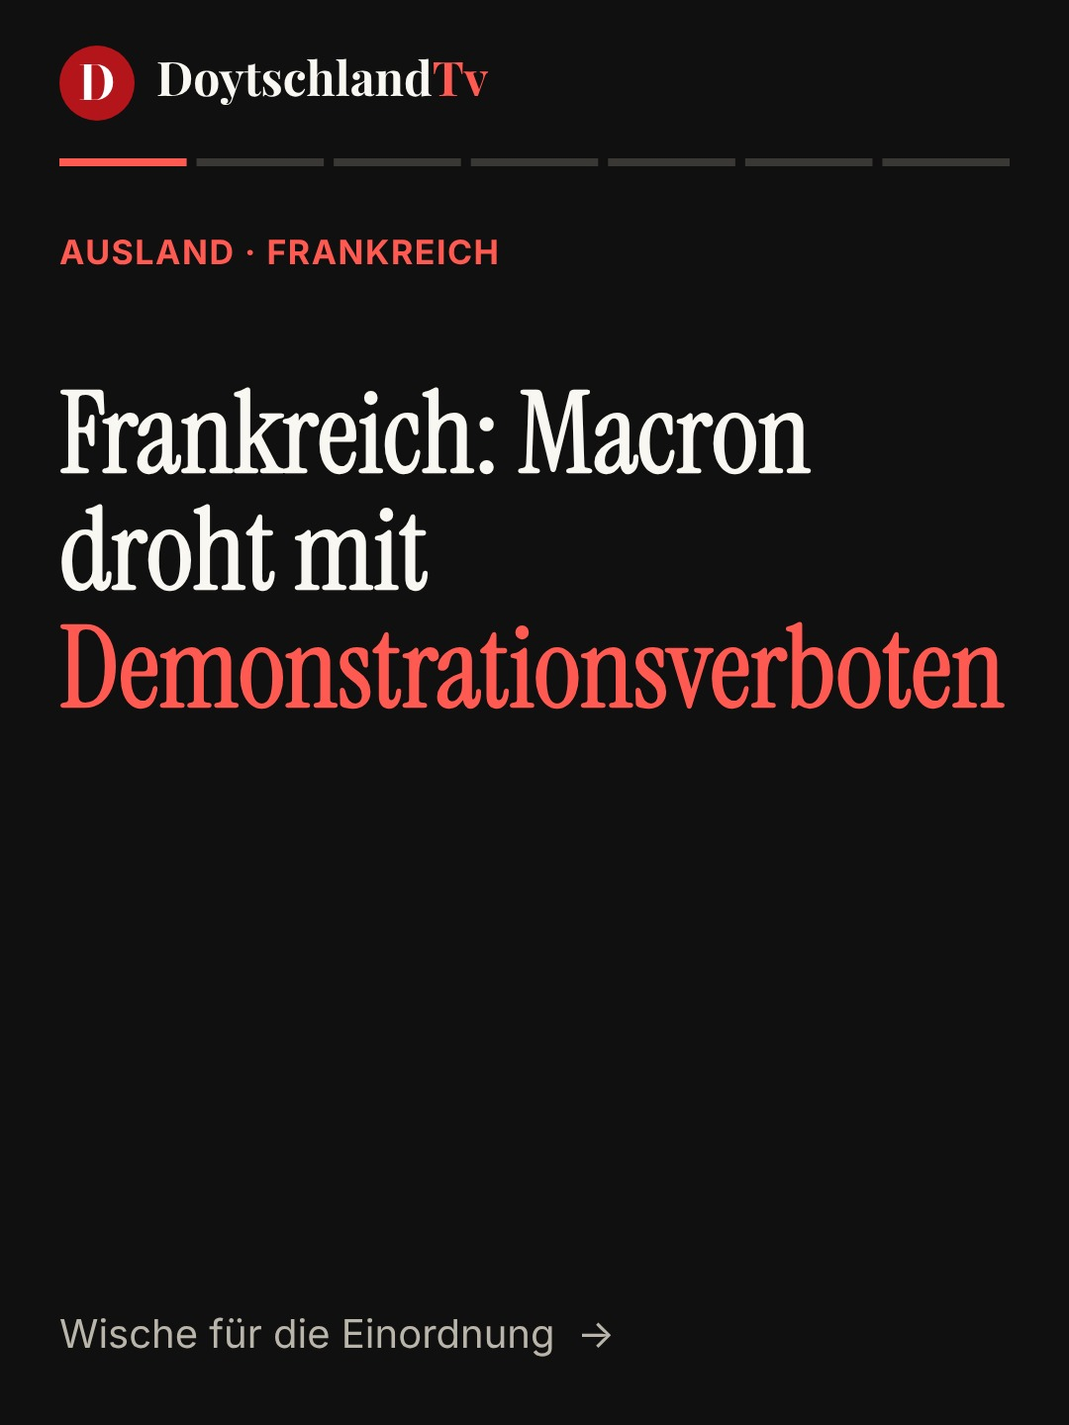
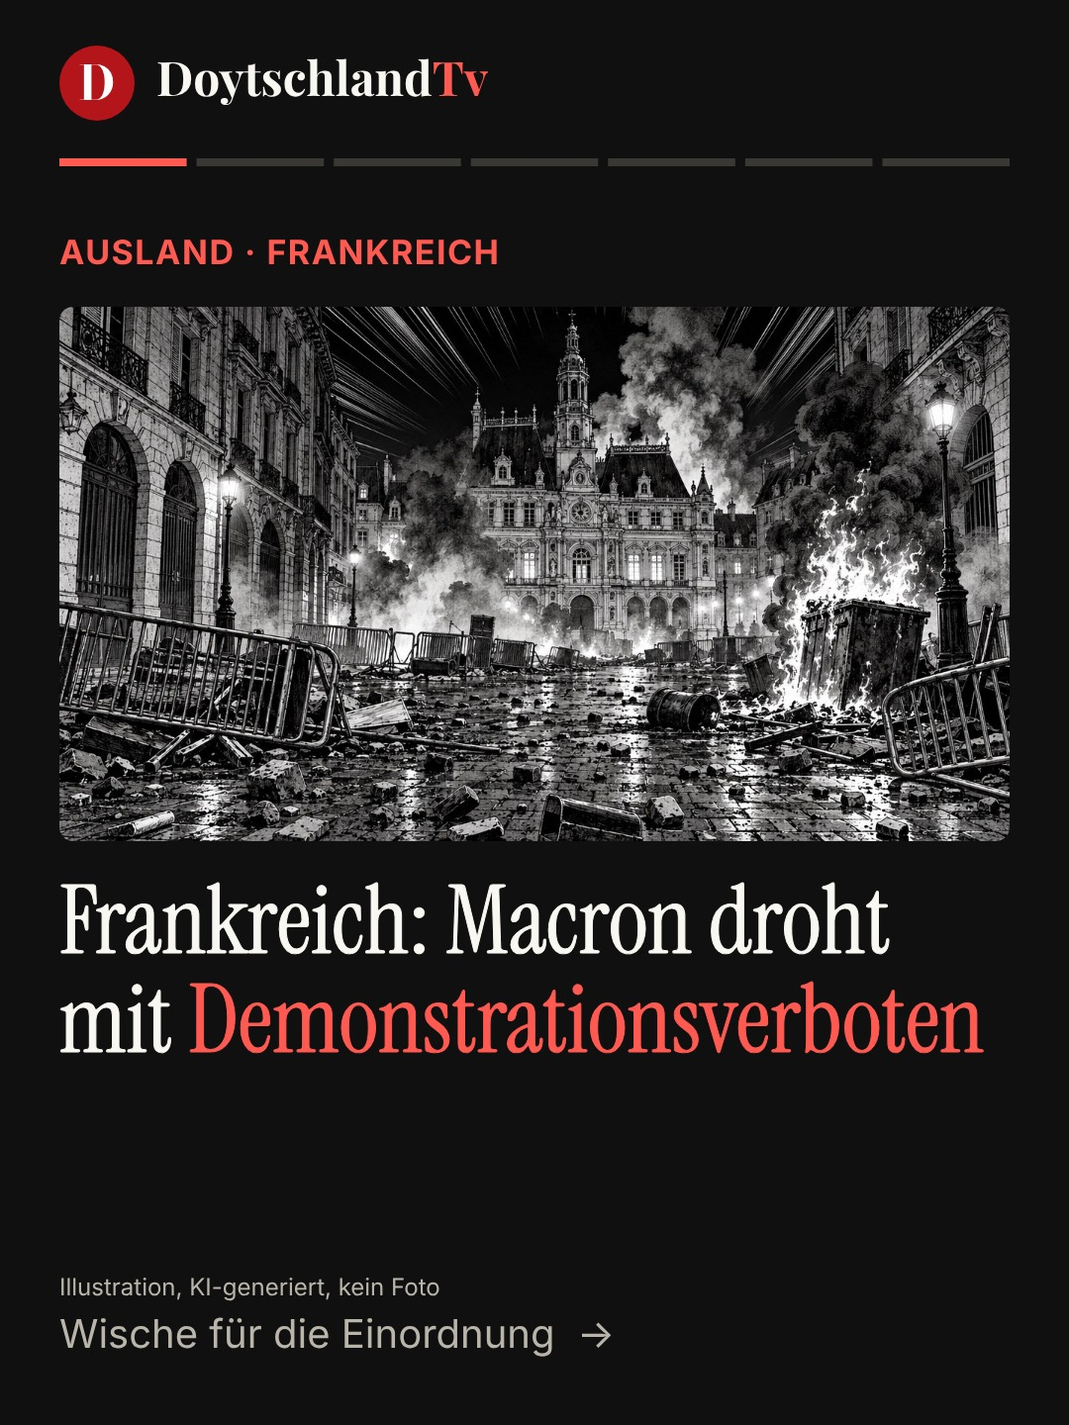
Macron-Karussell: Titelbild
Claude-Session: https://claude.ai/code/session_01HADCkE2LZJHKQCUdz9XwMJ

diff --git a/beitrag/2026-10-19-frankreich-macron-droht-mit-demonstrationsverboten.html b/beitrag/2026-10-19-frankreich-macron-droht-mit-demonstrationsverboten.html
@@ -5,10 +5,10 @@
 <link rel="canonical" href="https://doytschtv.de/beitrag/2026-10-19-frankreich-macron-droht-mit-demonstrationsverboten.html">
 <meta name="robots" content="index,follow,max-image-preview:large">
 <meta property="og:type" content="article"><meta property="og:site_name" content="DoytschlandTv"><meta property="og:locale" content="de_DE">
-<meta property="og:title" content="Frankreich: Macron droht mit Demonstrationsverboten"><meta property="og:description" content="In einer Fernsehansprache am Sonntagabend kündigte Macron an, dass Präfekten gemeinsam mit Bürgermeistern bestimmte Versammlungen verbieten können. Die…"><meta property="og:url" content="https://doytschtv.de/beitrag/2026-10-19-frankreich-macron-droht-mit-demonstrationsverboten.html"><meta property="og:image" content="https://doytschtv.de/og-image.png">
-<meta name="twitter:card" content="summary_large_image"><meta name="twitter:title" content="Frankreich: Macron droht mit Demonstrationsverboten"><meta name="twitter:description" content="In einer Fernsehansprache am Sonntagabend kündigte Macron an, dass Präfekten gemeinsam mit Bürgermeistern bestimmte Versammlungen verbieten können. Die…"><meta name="twitter:image" content="https://doytschtv.de/og-image.png">
+<meta property="og:title" content="Frankreich: Macron droht mit Demonstrationsverboten"><meta property="og:description" content="In einer Fernsehansprache am Sonntagabend kündigte Macron an, dass Präfekten gemeinsam mit Bürgermeistern bestimmte Versammlungen verbieten können. Die…"><meta property="og:url" content="https://doytschtv.de/beitrag/2026-10-19-frankreich-macron-droht-mit-demonstrationsverboten.html"><meta property="og:image" content="https://doytschtv.de/titel-frankreich.jpg">
+<meta name="twitter:card" content="summary_large_image"><meta name="twitter:title" content="Frankreich: Macron droht mit Demonstrationsverboten"><meta name="twitter:description" content="In einer Fernsehansprache am Sonntagabend kündigte Macron an, dass Präfekten gemeinsam mit Bürgermeistern bestimmte Versammlungen verbieten können. Die…"><meta name="twitter:image" content="https://doytschtv.de/titel-frankreich.jpg">
 <meta name="theme-color" content="#0b0b10"><link rel="apple-touch-icon" href="/favicon.png">
-<script type="application/ld+json">{"@context": "https://schema.org", "@type": "NewsArticle", "headline": "Frankreich: Macron droht mit Demonstrationsverboten", "description": "In einer Fernsehansprache am Sonntagabend kündigte Macron an, dass Präfekten gemeinsam mit Bürgermeistern bestimmte Versammlungen verbieten können. Die…", "datePublished": "2026-10-19", "dateModified": "2026-10-19", "inLanguage": "de", "mainEntityOfPage": "https://doytschtv.de/beitrag/2026-10-19-frankreich-macron-droht-mit-demonstrationsverboten.html", "image": ["https://doytschtv.de/og-image.png"], "author": {"@type": "Organization", "name": "DoytschlandTv", "url": "https://doytschtv.de/"}, "publisher": {"@type": "Organization", "name": "DoytschlandTv", "logo": {"@type": "ImageObject", "url": "https://doytschtv.de/favicon.png"}}, "articleSection": "Nachrichten", "keywords": ["doytschlandtv", "aktuell", "frankreich", "macron", "demonstrationsrecht", "proteste", "einordnung", "nachrichten"]}</script>
+<script type="application/ld+json">{"@context": "https://schema.org", "@type": "NewsArticle", "headline": "Frankreich: Macron droht mit Demonstrationsverboten", "description": "In einer Fernsehansprache am Sonntagabend kündigte Macron an, dass Präfekten gemeinsam mit Bürgermeistern bestimmte Versammlungen verbieten können. Die…", "datePublished": "2026-10-19", "dateModified": "2026-10-19", "inLanguage": "de", "mainEntityOfPage": "https://doytschtv.de/beitrag/2026-10-19-frankreich-macron-droht-mit-demonstrationsverboten.html", "image": ["https://doytschtv.de/titel-frankreich.jpg"], "author": {"@type": "Organization", "name": "DoytschlandTv", "url": "https://doytschtv.de/"}, "publisher": {"@type": "Organization", "name": "DoytschlandTv", "logo": {"@type": "ImageObject", "url": "https://doytschtv.de/favicon.png"}}, "articleSection": "Nachrichten", "keywords": ["doytschlandtv", "aktuell", "frankreich", "macron", "demonstrationsrecht", "proteste", "einordnung", "nachrichten"]}</script>
 <link rel="stylesheet" href="/fonts.css"><link rel="stylesheet" href="/styles.css"><link rel="stylesheet" href="/briefing.css">
 <style>:root{color-scheme:light}body{margin:0}</style><link rel="icon" type="image/png" href="/favicon.png"></head><body>
-<header class="nav"><div class="wrap"><a class="brand" href="/index.html"><span class="mk" aria-hidden="true">D</span><img class="lg-l" src="/logo.png" alt="DoytschlandTv" width="136" height="25"><img class="lg-d" src="/logo-dark.png" alt="DoytschlandTv" width="136" height="25"></a><ul><li><a href="/briefing.html">Briefing</a></li><li><a href="/nachrichten.html" class=on>Nachrichten</a></li><li><a href="/dossiers.html">Dossiers</a></li><li><a href="/meinungen.html">Meinungen</a></li><li><a href="/erklaert.html">Erklärt</a></li><li><a href="/ueber-uns.html">Über uns</a></li></ul><span class="nav-so"><a href="https://www.instagram.com/doytschlandtv/" target="_blank" rel="noopener" aria-label="DoytschlandTv auf Instagram"><svg viewBox="0 0 24 24" fill="none" stroke="currentColor" stroke-width="2" stroke-linecap="round" aria-hidden="true"><rect x="3" y="3" width="18" height="18" rx="5"/><circle cx="12" cy="12" r="4.2"/><circle cx="17.3" cy="6.7" r=".6" fill="currentColor"/></svg></a><a href="https://www.tiktok.com/@doytschlandtv" target="_blank" rel="noopener" aria-label="DoytschlandTv auf TikTok"><svg viewBox="0 0 24 24" fill="currentColor" aria-hidden="true"><path d="M16.6 5.8A4.3 4.3 0 0 1 15.5 3h-3.1v12.4a2.6 2.6 0 1 1-1.8-2.5V9.7a5.7 5.7 0 1 0 4.9 5.7V9a7.3 7.3 0 0 0 4.3 1.4V7.3a4.3 4.3 0 0 1-3.2-1.5z"/></svg></a></span></div></header><main><div class="wrap"><article class="kol"><p class="b-eyebrow">Nachrichten · Ausland · Frankreich</p><h1 class="mk-h1">Frankreich: Macron droht mit Demonstrationsverboten</h1><p class="mk-meta">19. Oktober 2026</p><h2>Die Ansprache</h2><p><strong>Verbote „notfalls“ möglich.</strong></p><p>In einer Fernsehansprache am Sonntagabend kündigte Macron an, dass Präfekten gemeinsam mit Bürgermeistern bestimmte Versammlungen verbieten können. Die Polizeiarbeit soll überprüft werden, auch ob Aufklärung und Vorbereitung versagt haben. Diese Woche sollen Schüler, Lehrer, Abgeordnete, Gewerkschaften und Wirtschaft Vorschläge erarbeiten.</p><h2>Der Samstag</h2><p><strong>2.000</strong> Festnahmen nennt das Innenministerium ungefähr, 855 davon in Paris. Rund 600 Polizisten und Feuerwehrleute wurden verletzt. Die Behörden gehen von 500 bis 1.000 gewaltbereiten Personen aus. Zum Protest kamen laut Innenministerium 550.000 Menschen.</p><h2>Behauptung und Fakt</h2><p><strong>Macron:</strong> Nichts rechtfertige die Gewalt. Verantwortlich seien linksextreme Gruppen und Kriminelle. Demonstrierende mit legitimen Forderungen dürfe man nicht mit Randalierern verwechseln.</p><p><strong>Jean-Luc Mélenchon (LFI):</strong> Die Regierung lasse die Probleme schwelen, die Jugend stecke in einer tiefen Krise. Man dürfe die Wahl zwischen Plünderern und Polizei nicht akzeptieren.</p><h2>Was jetzt folgt</h2><p><strong>Neue Proteste am 5. November</strong></p><p>Für den 5. November sind neue Proteste angekündigt. Bruno Retailleau fordert den Ausnahmezustand, Marine Le Pen macht Linksextreme und Macron verantwortlich. Schon jetzt können Präfekten Demonstrationen verbieten, wenn sie eine Störung der öffentlichen Ordnung erwarten. Gerichte können das Verbot kippen.</p><h2>Unsere Meinung</h2><p>Gewalt muss konsequent verfolgt werden. Aber ein Demonstrationsverbot beseitigt keine der Ursachen: hohe Preise, niedrige Löhne, marode Schulen. Wer die Wut von mehr als einer halben Million Menschen ernst nimmt, muss dort ansetzen. Das Recht zu demonstrieren gehört dazu.</p><h2>Was meinst du?</h2><p><strong>Sollte ein Staat Demonstrationen verbieten dürfen, wenn Gewalt zu befürchten ist?</strong></p><h2>Quellen</h2><ul><li>Stuttgarter Nachrichten (dpa), 18.10.2026; ORF, 19.10.2026</li><li>ORF, 19.10.2026</li><li>ORF, 19.10.2026; The Local France, 10.5.2023</li></ul><p><a href="/nachrichten.html">Alle Karussells ansehen ›</a></p><p class="mk-meta">Fakten sind mit Quellen belegt, Meinung ist als „Unsere Meinung“ gekennzeichnet.</p></article></div></main><footer><div class="wrap"><span>© DoytschlandTv</span><span><a href="/impressum.html">Impressum</a> · <a href="/datenschutz.html">Datenschutz</a></span></div></footer></body></html>
+<header class="nav"><div class="wrap"><a class="brand" href="/index.html"><span class="mk" aria-hidden="true">D</span><img class="lg-l" src="/logo.png" alt="DoytschlandTv" width="136" height="25"><img class="lg-d" src="/logo-dark.png" alt="DoytschlandTv" width="136" height="25"></a><ul><li><a href="/briefing.html">Briefing</a></li><li><a href="/nachrichten.html" class=on>Nachrichten</a></li><li><a href="/dossiers.html">Dossiers</a></li><li><a href="/meinungen.html">Meinungen</a></li><li><a href="/erklaert.html">Erklärt</a></li><li><a href="/ueber-uns.html">Über uns</a></li></ul><span class="nav-so"><a href="https://www.instagram.com/doytschlandtv/" target="_blank" rel="noopener" aria-label="DoytschlandTv auf Instagram"><svg viewBox="0 0 24 24" fill="none" stroke="currentColor" stroke-width="2" stroke-linecap="round" aria-hidden="true"><rect x="3" y="3" width="18" height="18" rx="5"/><circle cx="12" cy="12" r="4.2"/><circle cx="17.3" cy="6.7" r=".6" fill="currentColor"/></svg></a><a href="https://www.tiktok.com/@doytschlandtv" target="_blank" rel="noopener" aria-label="DoytschlandTv auf TikTok"><svg viewBox="0 0 24 24" fill="currentColor" aria-hidden="true"><path d="M16.6 5.8A4.3 4.3 0 0 1 15.5 3h-3.1v12.4a2.6 2.6 0 1 1-1.8-2.5V9.7a5.7 5.7 0 1 0 4.9 5.7V9a7.3 7.3 0 0 0 4.3 1.4V7.3a4.3 4.3 0 0 1-3.2-1.5z"/></svg></a></span></div></header><main><div class="wrap"><article class="kol"><p class="b-eyebrow">Nachrichten · Ausland · Frankreich</p><h1 class="mk-h1">Frankreich: Macron droht mit Demonstrationsverboten</h1><p class="mk-meta">19. Oktober 2026</p><figure style="margin:1rem 0"><img src="/titel-frankreich.jpg" alt="Frankreich: Macron droht mit Demonstrationsverboten" style="width:100%;height:auto;border-radius:1rem" loading="lazy"><figcaption class="mk-meta">Illustration, KI-generiert, kein Foto</figcaption></figure><h2>Die Ansprache</h2><p><strong>Verbote „notfalls“ möglich.</strong></p><p>In einer Fernsehansprache am Sonntagabend kündigte Macron an, dass Präfekten gemeinsam mit Bürgermeistern bestimmte Versammlungen verbieten können. Die Polizeiarbeit soll überprüft werden, auch ob Aufklärung und Vorbereitung versagt haben. Diese Woche sollen Schüler, Lehrer, Abgeordnete, Gewerkschaften und Wirtschaft Vorschläge erarbeiten.</p><h2>Der Samstag</h2><p><strong>2.000</strong> Festnahmen nennt das Innenministerium ungefähr, 855 davon in Paris. Rund 600 Polizisten und Feuerwehrleute wurden verletzt. Die Behörden gehen von 500 bis 1.000 gewaltbereiten Personen aus. Zum Protest kamen laut Innenministerium 550.000 Menschen.</p><h2>Behauptung und Fakt</h2><p><strong>Macron:</strong> Nichts rechtfertige die Gewalt. Verantwortlich seien linksextreme Gruppen und Kriminelle. Demonstrierende mit legitimen Forderungen dürfe man nicht mit Randalierern verwechseln.</p><p><strong>Jean-Luc Mélenchon (LFI):</strong> Die Regierung lasse die Probleme schwelen, die Jugend stecke in einer tiefen Krise. Man dürfe die Wahl zwischen Plünderern und Polizei nicht akzeptieren.</p><h2>Was jetzt folgt</h2><p><strong>Neue Proteste am 5. November</strong></p><p>Für den 5. November sind neue Proteste angekündigt. Bruno Retailleau fordert den Ausnahmezustand, Marine Le Pen macht Linksextreme und Macron verantwortlich. Schon jetzt können Präfekten Demonstrationen verbieten, wenn sie eine Störung der öffentlichen Ordnung erwarten. Gerichte können das Verbot kippen.</p><h2>Unsere Meinung</h2><p>Gewalt muss konsequent verfolgt werden. Aber ein Demonstrationsverbot beseitigt keine der Ursachen: hohe Preise, niedrige Löhne, marode Schulen. Wer die Wut von mehr als einer halben Million Menschen ernst nimmt, muss dort ansetzen. Das Recht zu demonstrieren gehört dazu.</p><h2>Was meinst du?</h2><p><strong>Sollte ein Staat Demonstrationen verbieten dürfen, wenn Gewalt zu befürchten ist?</strong></p><h2>Quellen</h2><ul><li>Stuttgarter Nachrichten (dpa), 18.10.2026; ORF, 19.10.2026</li><li>ORF, 19.10.2026</li><li>ORF, 19.10.2026; The Local France, 10.5.2023</li></ul><p><a href="/nachrichten.html">Alle Karussells ansehen ›</a></p><p class="mk-meta">Fakten sind mit Quellen belegt, Meinung ist als „Unsere Meinung“ gekennzeichnet.</p></article></div></main><footer><div class="wrap"><span>© DoytschlandTv</span><span><a href="/impressum.html">Impressum</a> · <a href="/datenschutz.html">Datenschutz</a></span></div></footer></body></html>

diff --git a/index.html b/index.html
@@ -64,7 +64,7 @@
         <h2 id="heute-h">Zuletzt im Blick</h2>
         <p id="heute-datum">19. Oktober 2026</p>
       </div>
-      <div class="hc-wrap"><button class="hc-b" id="hc-prev" type="button" aria-label="Zurück">&lsaquo;</button><div class="hc-rail" id="heute-liste" tabindex="0" aria-label="Schlagzeilen, seitlich wischen"><!--heute--><a class="hc" href="nachrichten.html#Merz%20l%C3%A4dt%20zum%20Investitionsgipfel%2C%20Nvidia-Chef%20Huang%20kommt"><span class="hc-t"><span class="k">Nachrichten · Mo., 19.10.</span><strong>Merz lädt zum Investitionsgipfel, Nvidia-Chef Huang kommt</strong></span></a><a class="hc" href="nachrichten.html#AfD%20will%20Kosten%20und%20Nutzen%20der%20Zuwanderung%20bilanzieren"><span class="hc-t"><span class="k">Nachrichten · Mo., 19.10.</span><strong>AfD will Kosten und Nutzen der Zuwanderung bilanzieren</strong></span></a><a class="hc" href="nachrichten.html#Frankreich%3A%20Macron%20droht%20mit%20Demonstrationsverboten"><span class="hc-t"><span class="k">Nachrichten · Mo., 19.10.</span><strong>Frankreich: Macron droht mit Demonstrationsverboten</strong></span></a><a class="hc has-img" href="nachrichten.html#%E2%80%9EEuropa%20brennt%E2%80%9C%3F%20Was%20die%20viralen%20Bilder%20zeigen%20und%20was%20nicht"><span class="hc-i"><img class="bg" src="titel-europa.jpg" alt="" loading="lazy" aria-hidden="true"><img class="fg" src="titel-europa.jpg" alt="" loading="lazy"></span><span class="hc-t"><span class="k">Nachrichten · Mo., 19.10.</span><strong>„Europa brennt“? Was die viralen Bilder zeigen und was nicht</strong><small>Illustration, KI-generiert, kein Foto</small></span></a><a class="hc has-img" href="nachrichten.html#Morning%20Briefing%2C%20Montag%2C%2019.%20Oktober%202026"><span class="hc-i"><img class="bg" src="titel-morning-briefing.jpg" alt="" loading="lazy" aria-hidden="true"><img class="fg" src="titel-morning-briefing.jpg" alt="" loading="lazy"></span><span class="hc-t"><span class="k">Nachrichten · Mo., 19.10.</span><strong>Morning Briefing, Montag, 19. Oktober 2026</strong><small>Grafik, DoytschlandTv</small></span></a><a class="hc has-img" href="nachrichten.html#Trump%20setzt%20neue%20Russland-Sanktionen%20aus"><span class="hc-i"><img class="bg" src="titel-russland.jpg" alt="" loading="lazy" aria-hidden="true"><img class="fg" src="titel-russland.jpg" alt="" loading="lazy"></span><span class="hc-t"><span class="k">Nachrichten · Mo., 19.10.</span><strong>Trump setzt neue Russland-Sanktionen aus</strong><small>Illustration, KI-generiert, kein Foto</small></span></a><a class="hc has-img" href="nachrichten.html#Berlin%3A%20Linke%2C%20Gr%C3%BCne%20und%20SPD%20wollen%20gro%C3%9Fe%20Wohnungskonzerne%20vergesellschaften"><span class="hc-i"><img class="bg" src="titel-berlin.jpg" alt="" loading="lazy" aria-hidden="true"><img class="fg" src="titel-berlin.jpg" alt="" loading="lazy"></span><span class="hc-t"><span class="k">Nachrichten · Mo., 19.10.</span><strong>Berlin: Linke, Grüne und SPD wollen große Wohnungskonzerne vergesellschaften</strong><small>Illustration, KI-generiert, kein Foto</small></span></a><a class="hc" href="nachrichten.html#Morning%20Briefing%2C%20Sonntag%2C%2018.%20Oktober%202026"><span class="hc-t"><span class="k">Nachrichten · So., 18.10.</span><strong>Morning Briefing, Sonntag, 18. Oktober 2026</strong></span></a><a class="hc has-img" href="nachrichten.html#Frankreich%3A%20Landesweiter%20Protesttag%20endet%20mit%20schweren%20Krawallen"><span class="hc-i"><img class="bg" src="titel-frankreich.jpg" alt="" loading="lazy" aria-hidden="true"><img class="fg" src="titel-frankreich.jpg" alt="" loading="lazy"></span><span class="hc-t"><span class="k">Nachrichten · So., 18.10.</span><strong>Frankreich: Landesweiter Protesttag endet mit schweren Krawallen</strong><small>Illustration, KI-generiert, kein Foto</small></span></a><a class="hc has-img" href="nachrichten.html#WDR%20will%20sein%20Angebot%20bis%202030%20halbieren"><span class="hc-i"><img class="bg" src="titel-wdr.jpg" alt="" loading="lazy" aria-hidden="true"><img class="fg" src="titel-wdr.jpg" alt="" loading="lazy"></span><span class="hc-t"><span class="k">Nachrichten · So., 18.10.</span><strong>WDR will sein Angebot bis 2030 halbieren</strong><small>Illustration, KI-generiert, kein Foto</small></span></a><a class="hc has-img" href="briefing.html#2026-10-19"><span class="hc-i"><img class="bg" src="titel-briefing.jpg" alt="" loading="lazy" aria-hidden="true"><img class="fg" src="titel-briefing.jpg" alt="" loading="lazy"></span><span class="hc-t"><span class="k">Morning Briefing</span><strong>Frankreich: Nach dem Protesttag rund 2.000 Festnahmen und 4 weitere Themen</strong><small>Illustration, KI-generiert, kein Foto</small></span></a><a class="hc has-img" href="meinungen.html#2026-10-11"><span class="hc-i"><img class="bg" src="kolumne-christ.jpg" alt="" loading="lazy" aria-hidden="true"><img class="fg" src="kolumne-christ.jpg" alt="" loading="lazy"></span><span class="hc-t"><span class="k">Kolumne · Demokratie</span><strong>Selbstauskunft ist keine Kontrolle: Was der Fall Christ über Beratergremien zeigt</strong><small>Illustration, KI-generiert, kein Foto.</small></span></a><a class="hc" href="erklaert.html#schuldenbremse"><span class="hc-t"><span class="k">Erklärt</span><strong>Schuldenbremse und Sondervermögen</strong></span></a><!--/heute--></div><button class="hc-b nx" id="hc-next" type="button" aria-label="Weiter">&rsaquo;</button></div>
+      <div class="hc-wrap"><button class="hc-b" id="hc-prev" type="button" aria-label="Zurück">&lsaquo;</button><div class="hc-rail" id="heute-liste" tabindex="0" aria-label="Schlagzeilen, seitlich wischen"><!--heute--><a class="hc" href="nachrichten.html#Merz%20l%C3%A4dt%20zum%20Investitionsgipfel%2C%20Nvidia-Chef%20Huang%20kommt"><span class="hc-t"><span class="k">Nachrichten · Mo., 19.10.</span><strong>Merz lädt zum Investitionsgipfel, Nvidia-Chef Huang kommt</strong></span></a><a class="hc" href="nachrichten.html#AfD%20will%20Kosten%20und%20Nutzen%20der%20Zuwanderung%20bilanzieren"><span class="hc-t"><span class="k">Nachrichten · Mo., 19.10.</span><strong>AfD will Kosten und Nutzen der Zuwanderung bilanzieren</strong></span></a><a class="hc has-img" href="nachrichten.html#Frankreich%3A%20Macron%20droht%20mit%20Demonstrationsverboten"><span class="hc-i"><img class="bg" src="titel-frankreich.jpg" alt="" loading="lazy" aria-hidden="true"><img class="fg" src="titel-frankreich.jpg" alt="" loading="lazy"></span><span class="hc-t"><span class="k">Nachrichten · Mo., 19.10.</span><strong>Frankreich: Macron droht mit Demonstrationsverboten</strong><small>Illustration, KI-generiert, kein Foto</small></span></a><a class="hc has-img" href="nachrichten.html#%E2%80%9EEuropa%20brennt%E2%80%9C%3F%20Was%20die%20viralen%20Bilder%20zeigen%20und%20was%20nicht"><span class="hc-i"><img class="bg" src="titel-europa.jpg" alt="" loading="lazy" aria-hidden="true"><img class="fg" src="titel-europa.jpg" alt="" loading="lazy"></span><span class="hc-t"><span class="k">Nachrichten · Mo., 19.10.</span><strong>„Europa brennt“? Was die viralen Bilder zeigen und was nicht</strong><small>Illustration, KI-generiert, kein Foto</small></span></a><a class="hc has-img" href="nachrichten.html#Morning%20Briefing%2C%20Montag%2C%2019.%20Oktober%202026"><span class="hc-i"><img class="bg" src="titel-morning-briefing.jpg" alt="" loading="lazy" aria-hidden="true"><img class="fg" src="titel-morning-briefing.jpg" alt="" loading="lazy"></span><span class="hc-t"><span class="k">Nachrichten · Mo., 19.10.</span><strong>Morning Briefing, Montag, 19. Oktober 2026</strong><small>Grafik, DoytschlandTv</small></span></a><a class="hc has-img" href="nachrichten.html#Trump%20setzt%20neue%20Russland-Sanktionen%20aus"><span class="hc-i"><img class="bg" src="titel-russland.jpg" alt="" loading="lazy" aria-hidden="true"><img class="fg" src="titel-russland.jpg" alt="" loading="lazy"></span><span class="hc-t"><span class="k">Nachrichten · Mo., 19.10.</span><strong>Trump setzt neue Russland-Sanktionen aus</strong><small>Illustration, KI-generiert, kein Foto</small></span></a><a class="hc has-img" href="nachrichten.html#Berlin%3A%20Linke%2C%20Gr%C3%BCne%20und%20SPD%20wollen%20gro%C3%9Fe%20Wohnungskonzerne%20vergesellschaften"><span class="hc-i"><img class="bg" src="titel-berlin.jpg" alt="" loading="lazy" aria-hidden="true"><img class="fg" src="titel-berlin.jpg" alt="" loading="lazy"></span><span class="hc-t"><span class="k">Nachrichten · Mo., 19.10.</span><strong>Berlin: Linke, Grüne und SPD wollen große Wohnungskonzerne vergesellschaften</strong><small>Illustration, KI-generiert, kein Foto</small></span></a><a class="hc" href="nachrichten.html#Morning%20Briefing%2C%20Sonntag%2C%2018.%20Oktober%202026"><span class="hc-t"><span class="k">Nachrichten · So., 18.10.</span><strong>Morning Briefing, Sonntag, 18. Oktober 2026</strong></span></a><a class="hc has-img" href="nachrichten.html#Frankreich%3A%20Landesweiter%20Protesttag%20endet%20mit%20schweren%20Krawallen"><span class="hc-i"><img class="bg" src="titel-frankreich.jpg" alt="" loading="lazy" aria-hidden="true"><img class="fg" src="titel-frankreich.jpg" alt="" loading="lazy"></span><span class="hc-t"><span class="k">Nachrichten · So., 18.10.</span><strong>Frankreich: Landesweiter Protesttag endet mit schweren Krawallen</strong><small>Illustration, KI-generiert, kein Foto</small></span></a><a class="hc has-img" href="nachrichten.html#WDR%20will%20sein%20Angebot%20bis%202030%20halbieren"><span class="hc-i"><img class="bg" src="titel-wdr.jpg" alt="" loading="lazy" aria-hidden="true"><img class="fg" src="titel-wdr.jpg" alt="" loading="lazy"></span><span class="hc-t"><span class="k">Nachrichten · So., 18.10.</span><strong>WDR will sein Angebot bis 2030 halbieren</strong><small>Illustration, KI-generiert, kein Foto</small></span></a><a class="hc has-img" href="briefing.html#2026-10-19"><span class="hc-i"><img class="bg" src="titel-briefing.jpg" alt="" loading="lazy" aria-hidden="true"><img class="fg" src="titel-briefing.jpg" alt="" loading="lazy"></span><span class="hc-t"><span class="k">Morning Briefing</span><strong>Frankreich: Nach dem Protesttag rund 2.000 Festnahmen und 4 weitere Themen</strong><small>Illustration, KI-generiert, kein Foto</small></span></a><a class="hc has-img" href="meinungen.html#2026-10-11"><span class="hc-i"><img class="bg" src="kolumne-christ.jpg" alt="" loading="lazy" aria-hidden="true"><img class="fg" src="kolumne-christ.jpg" alt="" loading="lazy"></span><span class="hc-t"><span class="k">Kolumne · Demokratie</span><strong>Selbstauskunft ist keine Kontrolle: Was der Fall Christ über Beratergremien zeigt</strong><small>Illustration, KI-generiert, kein Foto.</small></span></a><a class="hc" href="erklaert.html#schuldenbremse"><span class="hc-t"><span class="k">Erklärt</span><strong>Schuldenbremse und Sondervermögen</strong></span></a><!--/heute--></div><button class="hc-b nx" id="hc-next" type="button" aria-label="Weiter">&rsaquo;</button></div>
     </div>
   </section>
 

diff --git a/briefings.js b/briefings.js
@@ -364,7 +364,12 @@ window.BRIEFINGS = [
       "typ": "hook",
       "kicker": "Ausland · Frankreich",
       "titel": "Frankreich: Macron droht mit Demonstrationsverboten",
-      "rot": "Demonstrationsverboten"
+      "rot": "Demonstrationsverboten",
+      "bild": {
+       "url": "titel-frankreich.jpg",
+       "fokus": 0.5,
+       "unter": "Illustration, KI-generiert, kein Foto"
+      }
      },
      {
       "typ": "fakten",
